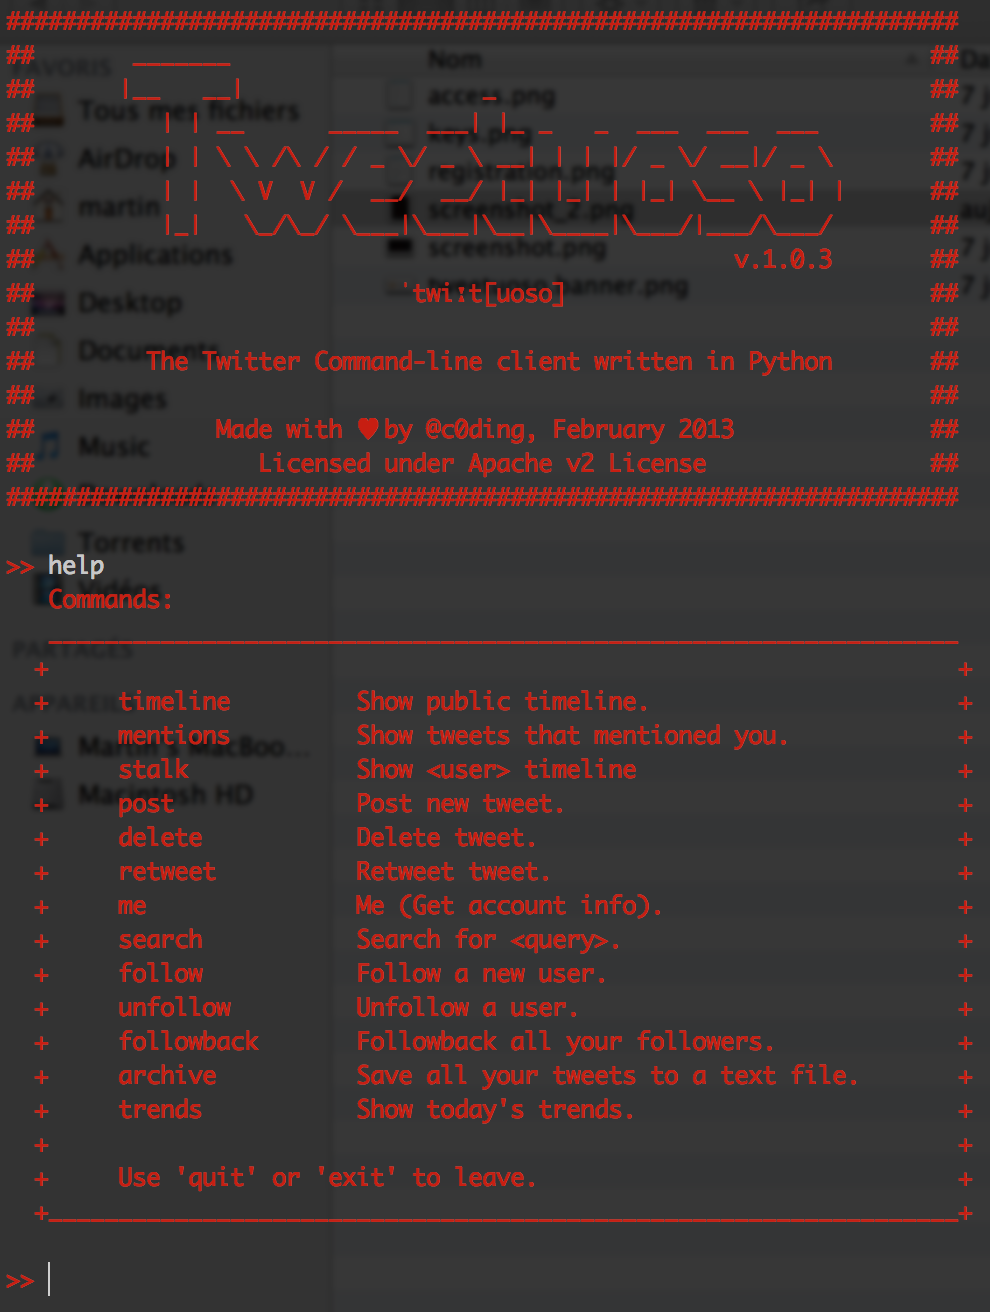
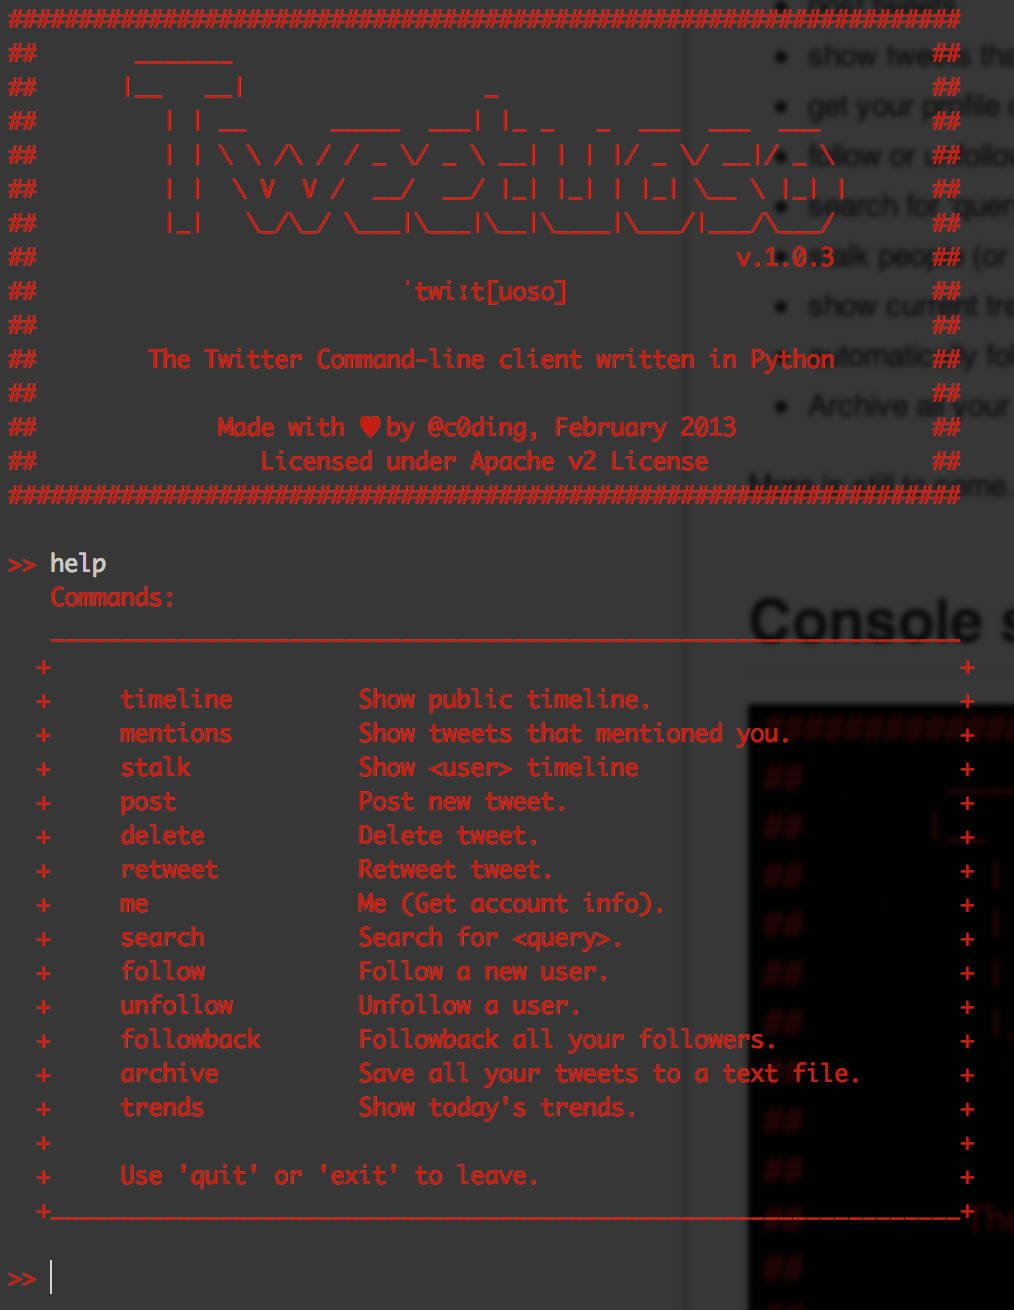
Updated README

diff --git a/README.md b/README.md
@@ -15,6 +15,7 @@ For now, it allows you to:
 * check your timeline
 * post tweets
 * show tweets that mentionned you
+* retweet a tweet
 * get your profile details
 * follow or unfollow people
 * search for 'query'
@@ -26,10 +27,13 @@ For now, it allows you to:
 More is still to come...
 
 
-## Console screenshot (80x24):
+## Console screenshots:
 
 
 ![screenshot](https://raw.github.com/c0ding/tweetuoso/master/tweetuoso/doc/screenshot.png)
+
+
+![screenshot](https://raw.github.com/c0ding/tweetuoso/master/tweetuoso/doc/screenshot_2.png)
 
 
 ## Installation
